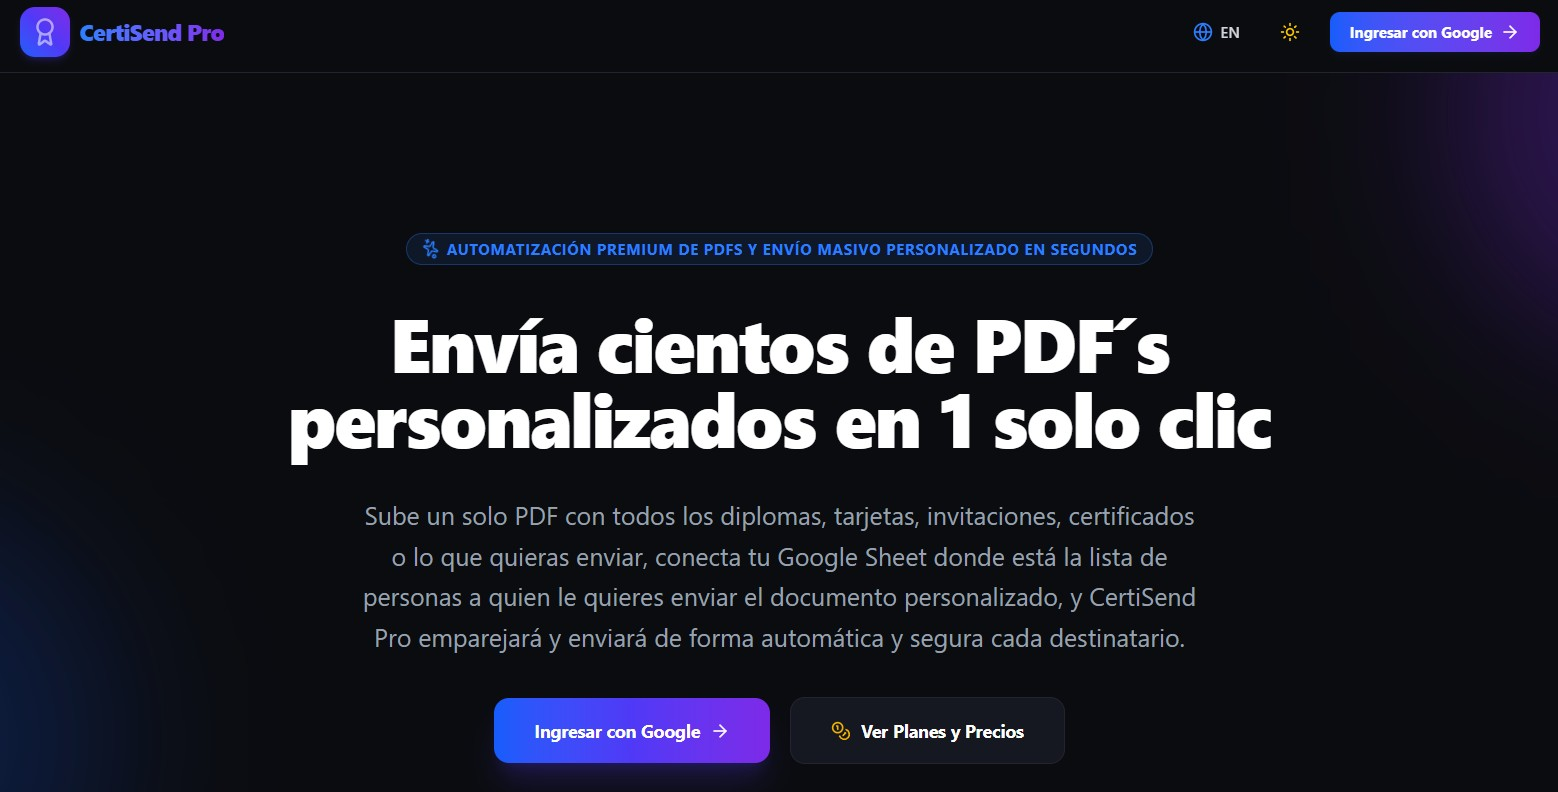
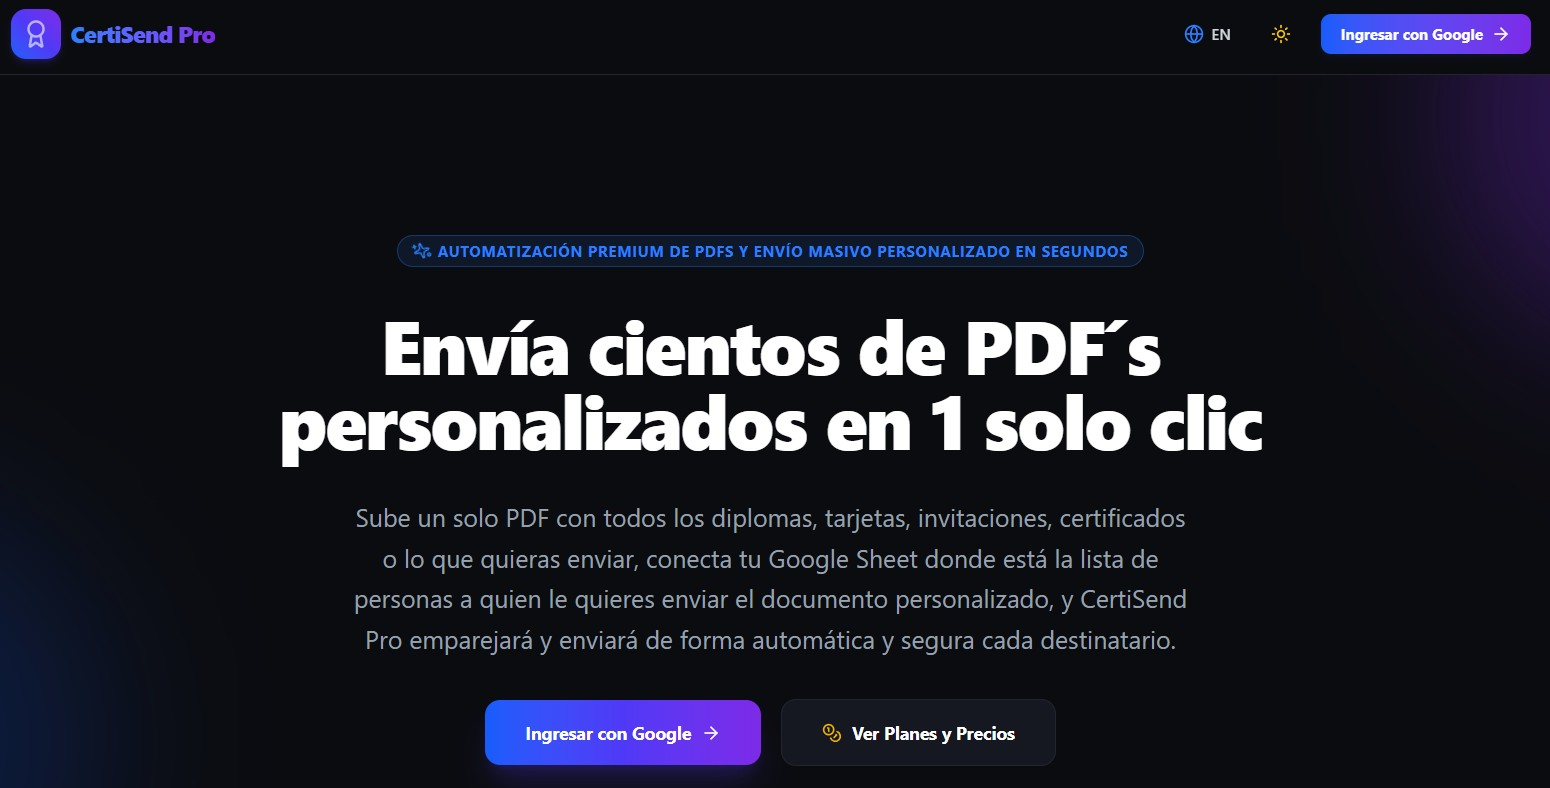
docs: subir captura de pantalla real y corregida

diff --git a/README.md b/README.md
@@ -6,11 +6,10 @@
 
 
 
-<!-- ESPACIO PARA LA CAPTURA DE PANTALLA -->
-
 ## 📱 Vista Previa de la Aplicación
 
 ![Vista Principal de CertiSendPro](assets/screenshot.jpg)
+
 
 
 